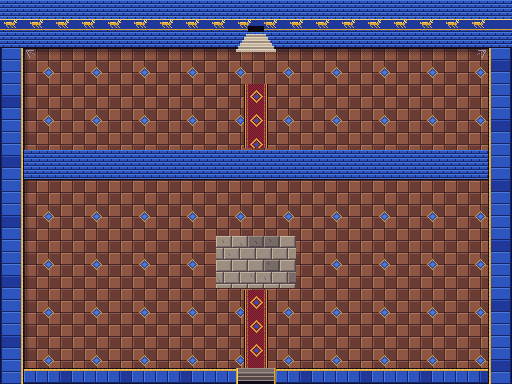
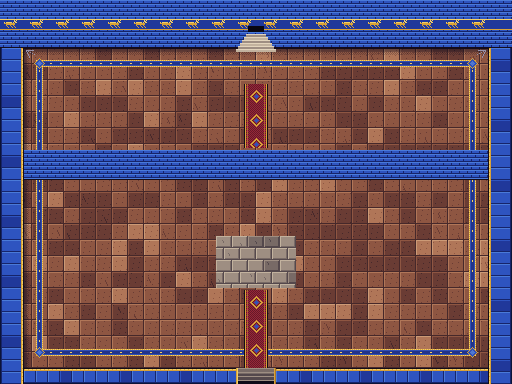
Ziggurat floors: big fired-clay tiles and a lapis border round each room

diff --git a/Art/pixel/region_art.py b/Art/pixel/region_art.py
@@ -343,17 +343,30 @@ def glazed_wall(cv, x0, y0, w, h, seed=60, frieze=True):
 
 
 def tile_floor(cv, x0, y0, w, h, seed=61):
+    """Big fired-clay floor tiles, one to a grid square: each a slightly different burn, a lit
+    top-left edge, a dark joint, here and there a chip or a crack, worn paler where feet go."""
     br = R['brick']
     rng = np.random.default_rng(seed)
+    T = 16
+    tones = {}
+    for ty in range((h + T - 1) // T + 1):
+        for tx in range((w + T - 1) // T + 1):
+            r = rng.random()
+            tones[(tx, ty)] = (3 if r < 0.55 else 2 if r < 0.9 else 4, rng.random() < 0.12, int(rng.integers(3, 12)), int(rng.integers(3, 12)))
     for y in range(y0, y0 + h):
         for x in range(x0, x0 + w):
-            lx, ly = (x - x0) % 12, (y - y0) % 12
-            base = 3 if ((x - x0) // 12 + (y - y0) // 12) % 2 == 0 else 2
+            tx, ty = (x - x0) // T, (y - y0) // T
+            lx, ly = (x - x0) % T, (y - y0) % T
+            base, cracked, cx, cy = tones[(tx, ty)]
             c = br[base]
-            if lx == 0 or ly == 0:
+            if lx == T - 1 or ly == T - 1:
                 c = br[1]
-            elif lx == 1 or ly == 1:
-                c = br[base + 1]
+            elif lx == 0 or ly == 0:
+                c = br[min(5, base + 1)]
+            elif cracked and (lx - cx) == (ly - cy) // 2 and 0 <= ly - cy < 6:
+                c = br[base - 1]
+            elif (x * 7 + y * 13) % 29 == 0:
+                c = br[base - 1]          # grit
             cv.px(x, y, c)
 
 
@@ -580,16 +593,32 @@ def carpet(cv, x0, y0, w, h):
             cv.px(x, y, c)
 
 
-def floor_inlays(cv, x0, y0, w, h, step=48):
-    """Lapis diamonds set into the brick floor on a wide grid."""
+def floor_inlays(cv, x0, y0, w, h, inset=12, band=7):
+    """A lapis border set into the floor all the way round the room, edged in gold and studded
+    with gold squares, like the edge of a great rug in stone; small lapis lozenges at its corners."""
     lp = R['lapis']; gd = R['gold']
-    for cy in range(y0 + step // 2, y0 + h, step):
-        for cx in range(x0 + step // 2, x0 + w, step):
-            for y in range(cy - 5, cy + 6):
-                for x in range(cx - 5, cx + 6):
-                    d = abs(x - cx) + abs(y - cy)
-                    if d <= 5:
-                        cv.px(x, y, gd[3] if d == 5 else lp[3] if d > 2 else lp[4])
+    bx0, by0, bx1, by1 = x0 + inset, y0 + inset, x0 + w - inset - 1, y0 + h - inset - 1
+    for y in range(by0, by1 + 1):
+        for x in range(bx0, bx1 + 1):
+            dx = min(x - bx0, bx1 - x); dy = min(y - by0, by1 - y)
+            d = min(dx, dy)
+            if d >= band:
+                continue
+            if d == 0 or d == band - 1:
+                c = gd[3] if (x + y) % 2 else gd[4]
+            else:
+                c = lp[3] if d in (1, band - 2) else lp[2]
+                along = x if dy < dx else y
+                if d == band // 2 and along % 10 in (0, 1):
+                    c = gd[4]
+            cv.px(x, y, c)
+    for (cx, cy) in ((bx0 + band // 2, by0 + band // 2), (bx1 - band // 2, by0 + band // 2),
+                     (bx0 + band // 2, by1 - band // 2), (bx1 - band // 2, by1 - band // 2)):
+        for yy in range(cy - 5, cy + 6):
+            for xx in range(cx - 5, cx + 6):
+                dd = abs(xx - cx) + abs(yy - cy)
+                if dd <= 5:
+                    cv.px(xx, yy, gd[3] if dd == 5 else lp[3] if dd > 2 else lp[4])
 
 
 def cobweb(cv, x, y, flip=False):
